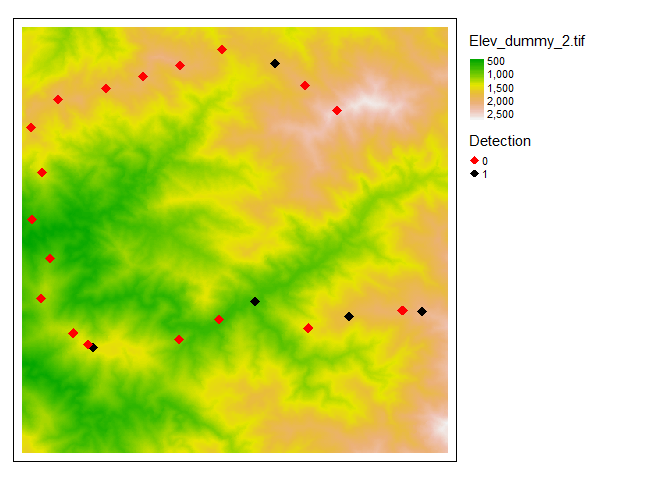
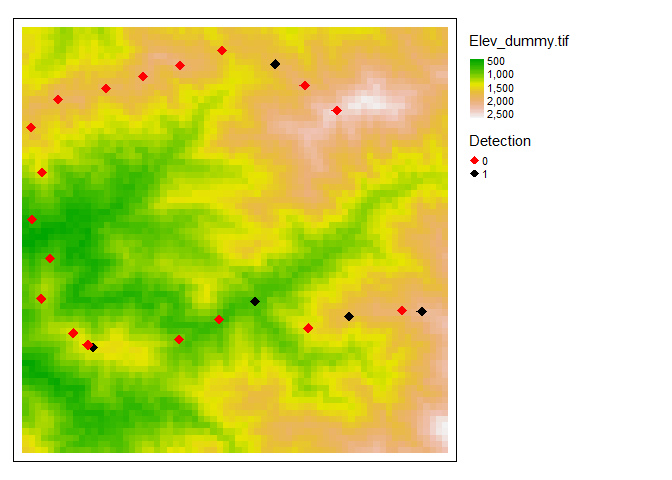
Update data elevasi

diff --git a/README.md b/README.md
@@ -89,22 +89,21 @@ devtools::install_github("ilubis85/track2dm")
 
 ## Bagaimana cara kerjanya?
 
-Dalam pustaka track2dm, beberapa contoh data tersedia untuk tujuan
-simulasi. Terdapat dua contoh data; data pengamatan, yang mencatat data
-kehadiran satwa sepanjang jalur transek dalam format Ms. Excell, dan
-data elevasi dalam format raster yang diperlukan saat pembuatan matriks
-deteksi.
+Dalam pustaka track2dm, terdapat contoh data untuk tujuan simulasi yakni
+data hasil pengamatan, yang mencatat data kehadiran satwa sepanjang
+jalur transek dalam format Ms. Excell.
+
+Sementara untuk mendapatkan nilai Z atau ketinggian, diperlukan nilai
+elevasi dari Digital Elevation Model (DEM).
 
 ``` r
 # Memanggil data
 # Data observasi
 data("occu_survey")
 
-# Data elevasi
-data("elevation")
-
-# Konversi data raster menjadi objeck SpatRast dan beri nama
-elevation <- as(elevation, 'SpatRaster')
+# Memanggil data elevasi
+library(terra)
+elevation <- rast("D:/WCS_domain/Training_track2dm_Bogor_2023/Data_spasial/Elev_dummy.tif")
 names(elevation) <- names('Elevasi')
 ```
 
@@ -141,6 +140,12 @@ dan demonstrasi pustaka track2dm.
 
 Pustaka track2dm memiliki beragam fungsi untuk memudahkan dalam membuat
 matriks deteksi seperti yang terlihat pada tabel berikut.
+
+    #> 
+    #> Attaching package: 'knitr'
+    #> The following object is masked from 'package:terra':
+    #> 
+    #>     spin
 
 <table class="table" style="margin-left: auto; margin-right: auto;">
 <thead>
@@ -206,7 +211,7 @@ berdasarkan ID atau waktu pengamatan
 </tr>
 <tr>
 <td style="text-align:left;">
-dm2spatial
+dm2spatial()
 </td>
 <td style="text-align:left;">
 Konversi deteksi mariks menjadi data spasial untuk memudahkan dalam
@@ -318,6 +323,15 @@ matriks deteksi untuk tujuan peninjauan hasil. Ini dapat dilakukan
 dengan mengkonversi matriks deteksi menjadi data spasial menggunakan
 fungsi **dm2spatial()**. Dataframe yang dihasilkan kemudian dapat
 diplotkan pada peta menggunakan pustaka *tmap*.
+
+    #> The legacy packages maptools, rgdal, and rgeos, underpinning the sp package,
+    #> which was just loaded, will retire in October 2023.
+    #> Please refer to R-spatial evolution reports for details, especially
+    #> https://r-spatial.org/r/2023/05/15/evolution4.html.
+    #> It may be desirable to make the sf package available;
+    #> package maintainers should consider adding sf to Suggests:.
+    #> The sp package is now running under evolution status 2
+    #>      (status 2 uses the sf package in place of rgdal)
 
 <div class="figure" style="text-align: left">
 
